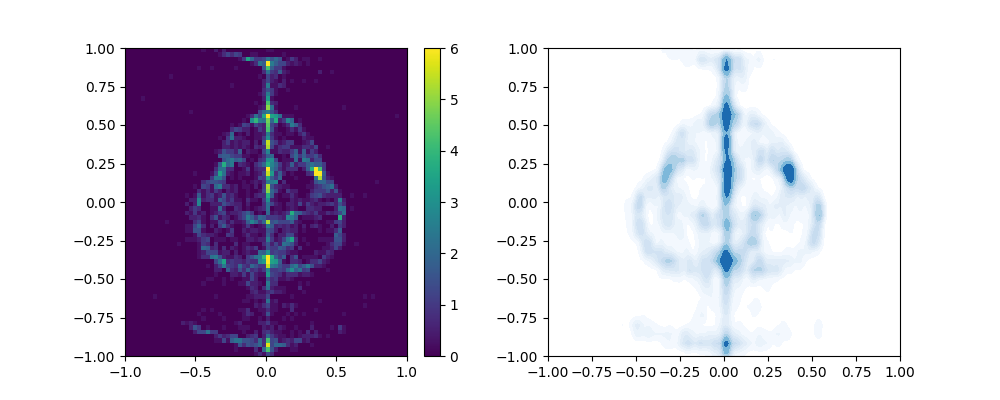
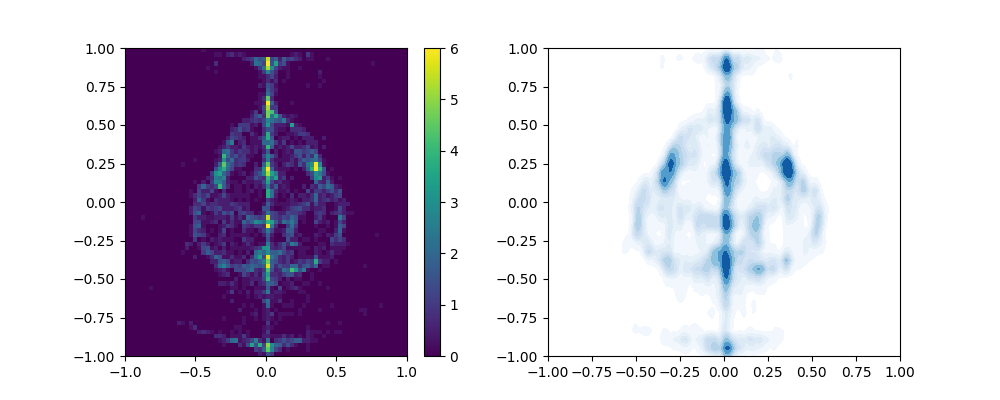
generic commit

diff --git a/scripts/transport/kvae_flow_alt.py b/scripts/transport/kvae_flow_alt.py
@@ -402,7 +402,7 @@ def comp_cond_kernel_transport(X_mu, Y_mu, Y_eta, Y_eta_test, X_mu_test, Y_mu_te
                                final_eps=1e-6, n_transports=50, reg_lambda=1e-4):
     model_params = {'fit_kernel': [], 'Lambda_mean': [], 'X_mean': [], 'Lambda_var': [], 'X_var': []}
     iters = 0
-    noise_shrink_c = np.exp(np.log(final_eps) / (n_transports - 10))
+    noise_shrink_c = np.exp(np.log(final_eps) / (n_transports - 20))
     model_params['final_eps'] = final_eps
     Y_mean = 0
     Y_mean_test = 0
@@ -740,7 +740,7 @@ def vl_exp(N=4000, Yd=18, normal=True, exp_name='kvl_exp', n_transports=100,  N_
 def run():
     #elden_exp(N=5000, exp_name='elden_exp_alt3', n_transports=150)
 
-    two_d_exp(ref_gen=sample_normal, target_gen=sample_elden_ring, N=5000, exp_name='elden_exp_alt3', n_transports = 160,
+    two_d_exp(ref_gen=sample_normal, target_gen=sample_elden_ring, N=5000, exp_name='elden_exp_alt3', n_transports = 200,
               slice_vals = [], plt_range = [[-1,1],[-1,1]], slice_range = [-1,1], vmax=6, skip_idx=1, N_plot = 5000)
 
 
